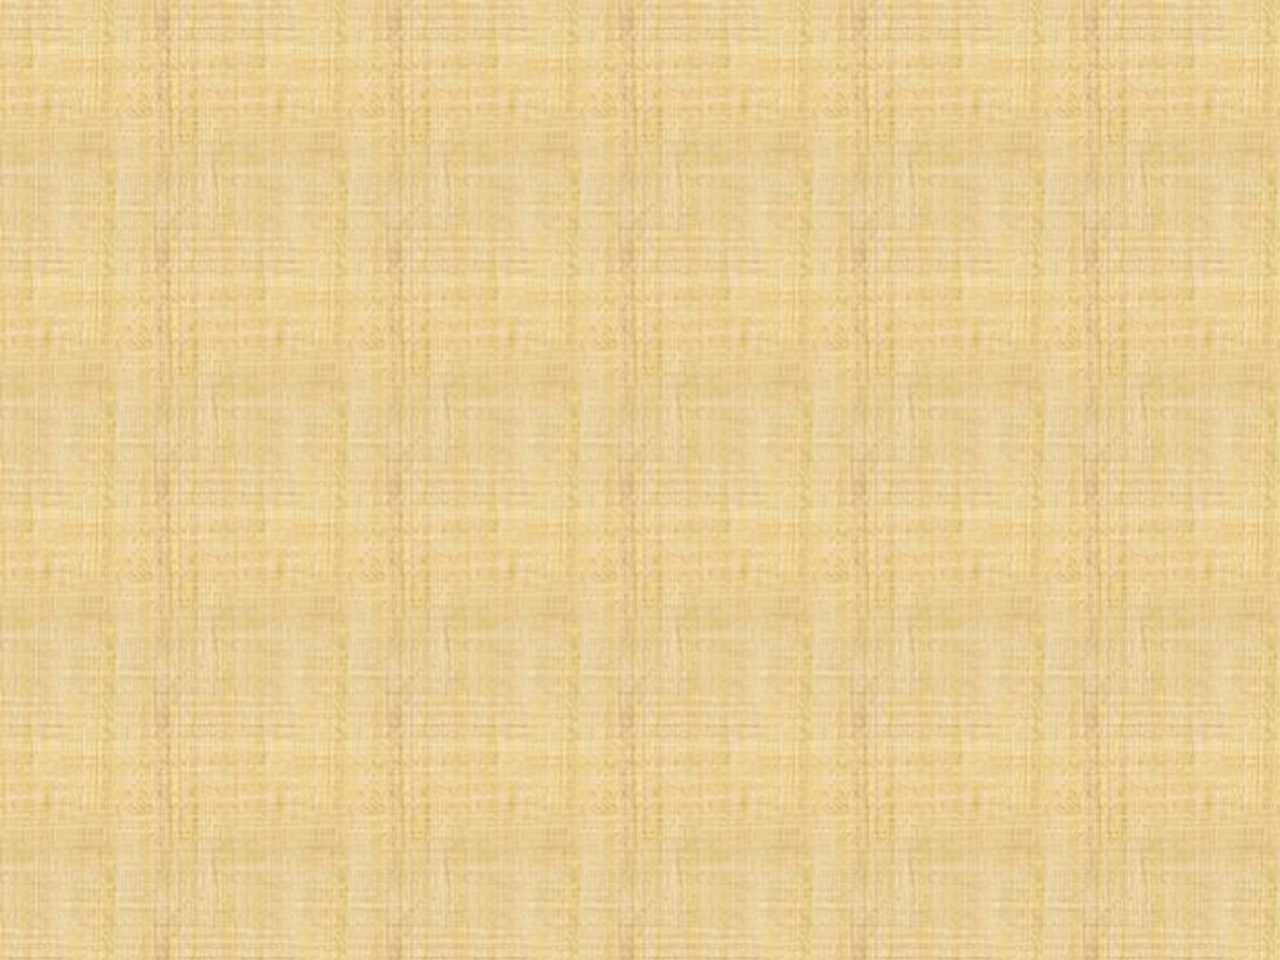
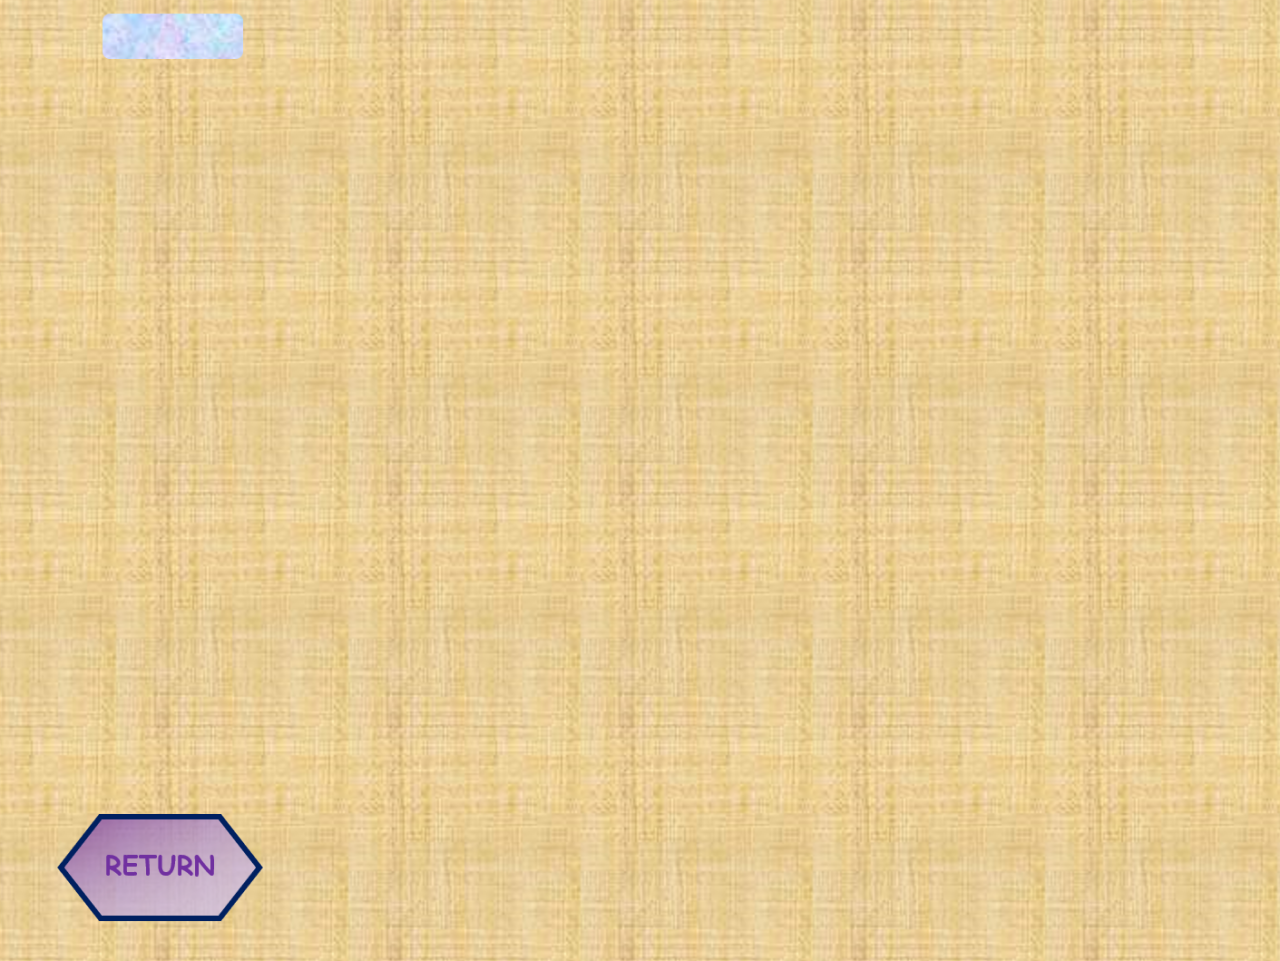
Add Return button

Changed region(s): [[0.0312, 0.8438, 0.2188, 0.9688], [0.0625, 0.0, 0.1875, 0.0625]]

diff --git a/core/src/com/suicidebomber/scene/PlayGround.java b/core/src/com/suicidebomber/scene/PlayGround.java
@@ -14,15 +14,16 @@ import java.util.ArrayList;
 
 public class PlayGround extends Scene {
 
-    public PlayerManager playerManager;
-    public TransitionScene transitionScene;
-    public Canvas2D bomb;
-    public Canvas2D fire;
-    public Canvas2D box;
-    public Canvas2D wall;
-    public Canvas2D item;
-    public Canvas2D other;
-    public Gui gui;
+    private PlayerManager playerManager;
+    private TransitionScene transitionScene;
+    private Canvas2D bomb;
+    private Canvas2D fire;
+    private Canvas2D box;
+    private Canvas2D wall;
+    private Canvas2D item;
+    private Canvas2D other;
+    private Gui gui;
+    private Button returnButton;
 
     private boolean isPLaying = true;
 
@@ -36,6 +37,9 @@ public class PlayGround extends Scene {
                 } else if (signal.equals("change_scene")) {
                     change_scene();
                 } else if (signal.equals("text_out")) {
+                    text_out();
+                } else if (signal.equals("button_return")) {
+                    isPLaying = false;
                     text_out();
                 }
             }
@@ -166,6 +170,13 @@ public class PlayGround extends Scene {
         gui.connect_signal("time_out", root, "end_game");
         gui.connect_signal("text_out", root, "text_out");
         root.addChild(gui);
+
+        returnButton = new Button();
+        returnButton.mouseInTexture = "BUTTON_RETURN";
+        returnButton.position.set(58, 42);
+        returnButton.size.set(200, 106);
+        returnButton.connect_signal("button_pressed", root, "button_return");
+        root.addChild(returnButton);
 
         transitionScene = new TransitionScene();
         transitionScene.connect_signal("disappear_ended", root, "change_scene");
